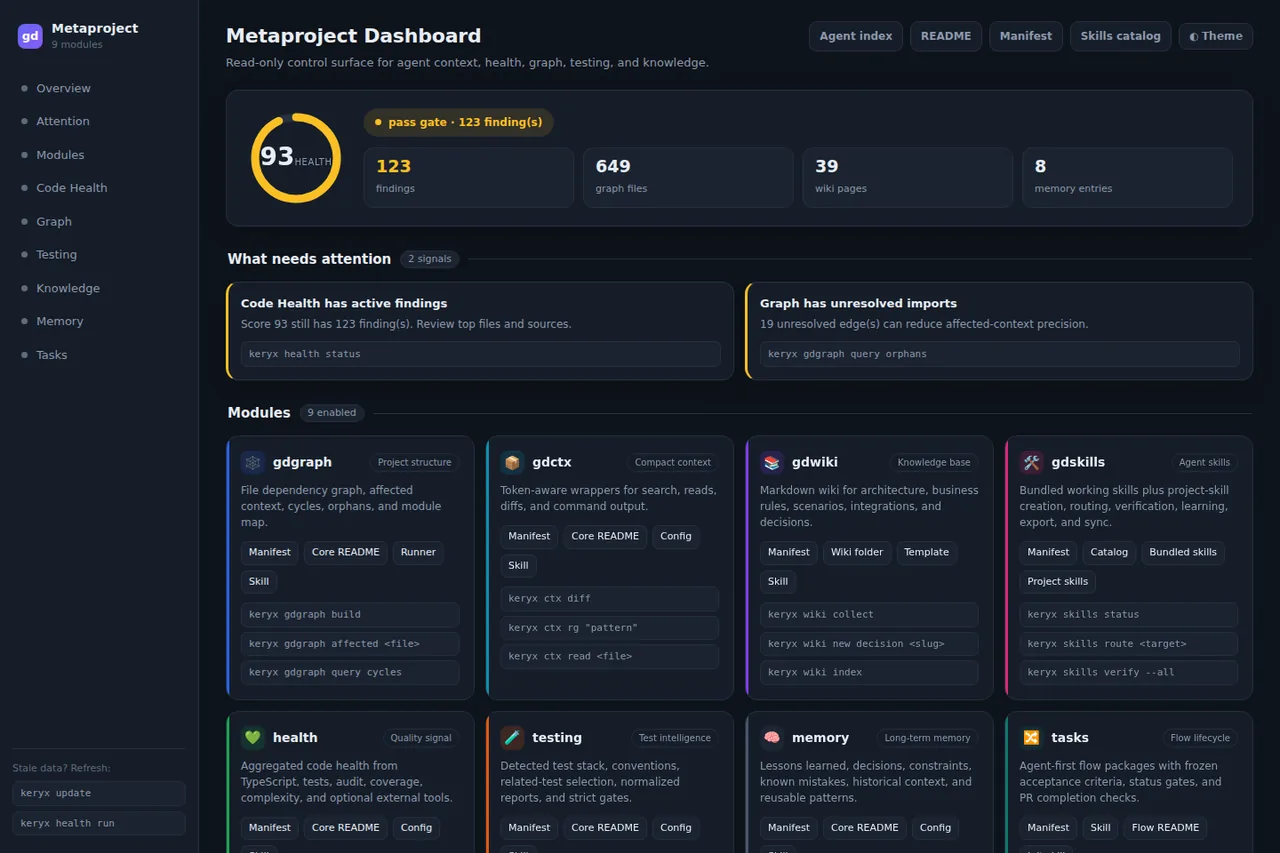
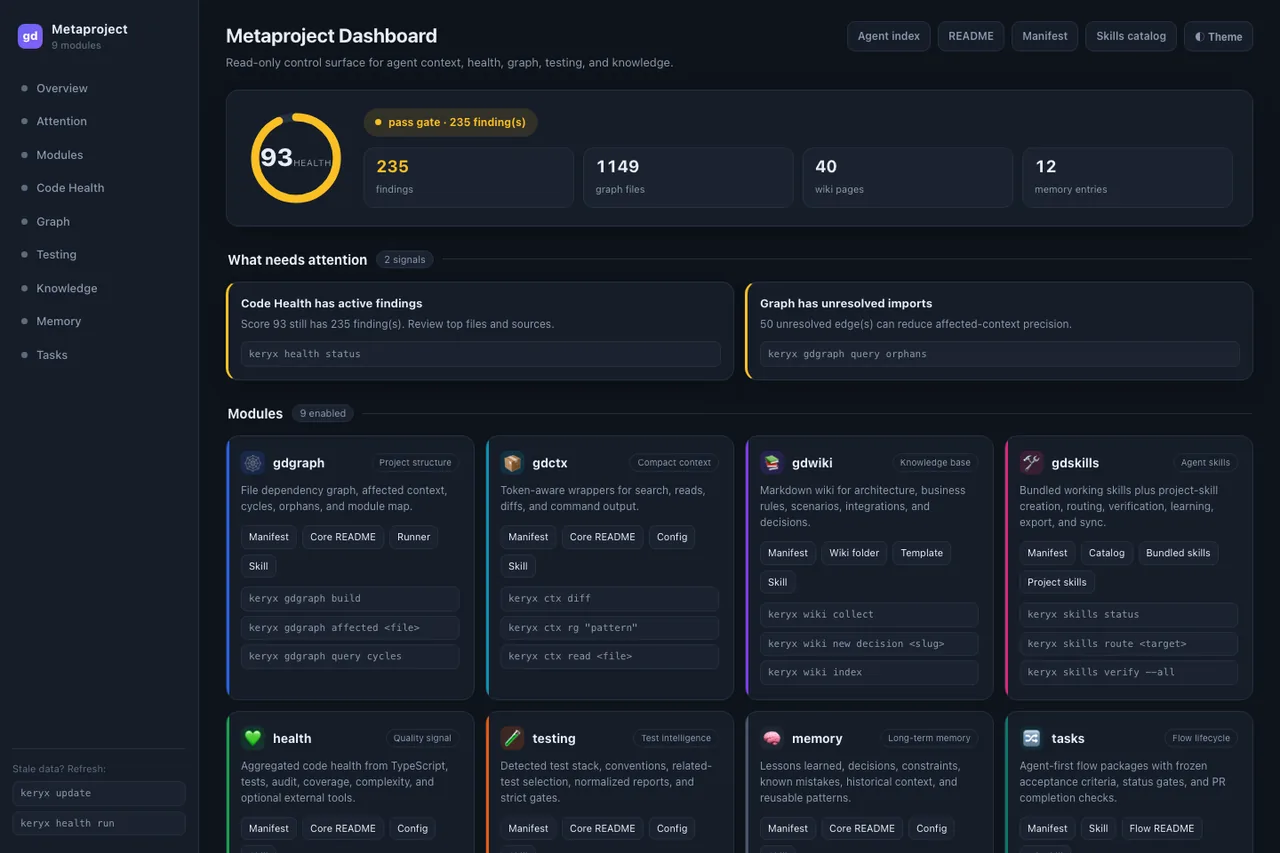
feat: re-shoot the dashboard alongside the figures
The screenshot's caption carried hand-typed numbers, and they had already gone
wrong: 649 graph files against 1,149 today, 39 wiki pages against 40, 8 memory
entries against 12. Nothing on the page could have told you.

The picture and the caption now come out of one render. scripts/shoot-dashboard
builds the keryx dashboard, screenshots it headless, and reads the header strip
off that same page into data/dashboard.json, which the caption is templated
from. It writes nothing when no number moved, so a nightly re-render cannot
produce an empty commit.

The nightly workflow does both refreshes now. The dashboard step is allowed to
fail: a broken keryx build should not hold back a counter refresh that has
nothing to do with it.

diff --git a/scripts/shoot-dashboard.ts b/scripts/shoot-dashboard.ts
@@ -1,0 +1,84 @@
+/**
+ * Re-shoots the keryx dashboard and records the numbers it shows.
+ *
+ * The screenshot on the site used to carry hand-typed figures in its caption,
+ * which drifted the moment the project moved. Both now come out of the same
+ * run: the picture and the caption cannot disagree, because they are read from
+ * one render.
+ *
+ *   bun run scripts/shoot-dashboard.ts <path-to-keryx-dashboard.html>
+ */
+import { chromium } from "playwright";
+import sharp from "sharp";
+import { readFile, writeFile } from "node:fs/promises";
+
+const source = process.argv[2];
+if (!source) throw new Error("usage: shoot-dashboard.ts <keryx-dashboard.html>");
+
+const WIDTH = 1440;
+const HEIGHT = 960;
+const OUT_IMAGE = new URL("../public/shots/dashboard.webp", import.meta.url).pathname;
+const OUT_STATS = new URL("../data/dashboard.json", import.meta.url).pathname;
+
+const browser = await chromium.launch();
+const page = await browser.newPage({
+  viewport: { width: WIDTH, height: HEIGHT },
+  deviceScaleFactor: 1,
+});
+await page.goto(`file://${source}`, { waitUntil: "networkidle" });
+
+/** Read the header strip the same way a visitor does — off the rendered page. */
+const stats = await page.evaluate(() => {
+  const text = (document.body.innerText || "").replace(/\s+/g, " ");
+  const grab = (label: string) => {
+    const m = text.match(new RegExp(`([\\d,]+)\\s+${label}`, "i"));
+    return m ? Number(m[1].replace(/,/g, "")) : null;
+  };
+  const health = text.match(/(\d+)\s*HEALTH/i);
+  return {
+    health: health ? Number(health[1]) : null,
+    findings: grab("findings"),
+    graphFiles: grab("graph files"),
+    wikiPages: grab("wiki pages"),
+    memoryEntries: grab("memory entries"),
+    modules: grab("modules"),
+  };
+});
+
+const png = await page.screenshot({ type: "png" });
+await browser.close();
+
+const missing = Object.entries(stats).filter(([, v]) => v === null).map(([k]) => k);
+if (missing.length) {
+  throw new Error(
+    `the dashboard rendered without: ${missing.join(", ")} — ` +
+      "run `keryx gdgraph build` and `keryx health run` before building it",
+  );
+}
+
+// Re-rendering can differ byte for byte while showing the same thing. Writing
+// only when a number actually moved keeps the nightly job from producing an
+// empty commit — and a rebuild — every single night.
+let previous: Record<string, unknown> = {};
+try {
+  previous = JSON.parse(await readFile(OUT_STATS, "utf8"));
+} catch {
+  /* first run */
+}
+const same = Object.entries(stats).every(([k, v]) => previous[k] === v);
+if (same) {
+  console.log("dashboard unchanged, nothing written:", stats);
+  process.exit(0);
+}
+
+await sharp(png).resize({ width: 1280 }).webp({ quality: 82, effort: 6 }).toFile(OUT_IMAGE);
+await writeFile(
+  OUT_STATS,
+  JSON.stringify(
+    { shotAt: new Date().toISOString(), source: "keryx dashboard build", ...stats },
+    null,
+    2,
+  ) + "\n",
+);
+
+console.log("dashboard re-shot:", stats);

diff --git a/src/content/layers.ts b/src/content/layers.ts
@@ -192,8 +192,8 @@ export const LAYERS: Layer[] = [
         height: 853,
         alt: "The keryx dashboard: a health score, attention signals and the enabled modules",
         caption: {
-          en: "<b>keryx dash</b> · the read-only control surface: health 93, 649 graph files, 39 wiki pages, 8 memory entries, 9 modules",
-          ru: "<b>keryx dash</b> · read-only панель управления: здоровье 93, 649 файлов графа, 39 страниц вики, 8 записей памяти, 9 модулей",
+          en: "<b>keryx dash</b> · the read-only control surface, re-shot on {{dash.shotOn}}: health {{dash.health}}, {{dash.findings}} findings, {{dash.graphFiles}} graph files, {{dash.wikiPages}} wiki pages, {{dash.memoryEntries}} memory entries, {{dash.modules}} modules",
+          ru: "<b>keryx dash</b> · read-only панель управления, снята {{dash.shotOn}}: здоровье {{dash.health}}, {{dash.findings}} findings, {{dash.graphFiles}} файлов графа, {{dash.wikiPages}} страниц вики, {{dash.memoryEntries}} записей памяти, {{dash.modules}} модулей",
         },
       },
     ],

diff --git a/src/lib/figures.ts b/src/lib/figures.ts
@@ -1,3 +1,4 @@
+import dashboard from "@data/dashboard.json";
 import profile from "@data/profile.json";
 import type { TX } from "@/lib/tx";
 
@@ -40,7 +41,28 @@ const DATE: TX = {
   }),
 };
 
+/** Read off the same render that produced public/shots/dashboard.webp. */
+const SHOT_ON: TX = {
+  en: new Date(dashboard.shotAt).toLocaleDateString("en-GB", {
+    day: "numeric",
+    month: "long",
+    year: "numeric",
+  }),
+  ru: new Date(dashboard.shotAt).toLocaleDateString("ru-RU", {
+    day: "numeric",
+    month: "long",
+    year: "numeric",
+  }),
+};
+
 export const FIGURES: Record<string, TX> = {
+  "dash.health": num(dashboard.health),
+  "dash.findings": num(dashboard.findings),
+  "dash.graphFiles": num(dashboard.graphFiles),
+  "dash.wikiPages": num(dashboard.wikiPages),
+  "dash.memoryEntries": num(dashboard.memoryEntries),
+  "dash.modules": num(dashboard.modules),
+  "dash.shotOn": SHOT_ON,
   "keryx.commits": num(keryx.commits),
   "keryx.releases": num(keryx.releases),
   "helyx.commits": num(helyx.commits),

diff --git a/src/app/page.tsx b/src/app/page.tsx
@@ -127,7 +127,7 @@ export default function Page() {
                       decoding="async"
                     />
                     <figcaption>
-                      <T v={shot.caption} html />
+                      <T v={fill(shot.caption)} html />
                     </figcaption>
                   </figure>
                 ))}

diff --git a/README.md b/README.md
@@ -14,14 +14,20 @@ on every task.
 
 ## The figures are not typed in
 
-Copy carries `{{token}}` placeholders instead of numbers. They are filled at
-build time from `data/profile.json`, which comes only from the GitHub and npm
-APIs and is committed next to the code, so a build is reproducible offline and a
-claim on the page cannot drift away from its source.
+Copy carries `{{token}}` placeholders instead of numbers, filled at build time
+from two committed snapshots — `data/profile.json` (GitHub and npm counters) and
+`data/dashboard.json` (the keryx dashboard header). Both sit next to the code, so
+a build is reproducible offline and no claim on the page can drift away from its
+source.
+
+The dashboard screenshot is the case that made this worth doing: its caption used
+to carry hand-typed numbers, and they were wrong within weeks. Picture and
+caption now come out of one render of one page.
 
 ```bash
 bun run data     # refresh data/profile.json from the APIs
 bun run shots    # crop and convert screenshots into public/shots
+bun run shot:dash <path-to-keryx-dashboard.html>   # re-shoot the dashboard
 bun run dev      # local
 bun run build    # static export into out/
 ```

diff --git a/DEPLOY.md b/DEPLOY.md
@@ -2,12 +2,17 @@
 
 The site is a static export — nothing runs on a server.
 
-`data/profile.json` holds a committed snapshot of the public GitHub and npm APIs
-(commit counts, release counts, published versions). The nightly workflow keeps
-it current. **The page copy does not read it yet** — the figures in the layer text
-are still written by hand, and the snapshot exists so they can be wired to a
-source instead. Until that is done, treat the workflow as keeping the evidence
-fresh, not the page.
+Every figure the page states about these repositories is a `{{token}}` in the
+copy, filled at build time from two committed snapshots:
+
+- `data/profile.json` — commits, tags and npm versions, from the GitHub and npm APIs.
+- `data/dashboard.json` — the keryx dashboard header, read off the same render
+  that produced `public/shots/dashboard.webp`, so the picture and its caption
+  cannot disagree.
+
+The nightly workflow refreshes both and commits **only when a value actually
+moved**. The screenshot re-renders byte-differently every run, so committing it
+unconditionally would rebuild the site every night for nothing.
 
 ## Hosting: Cloudflare Pages
 
